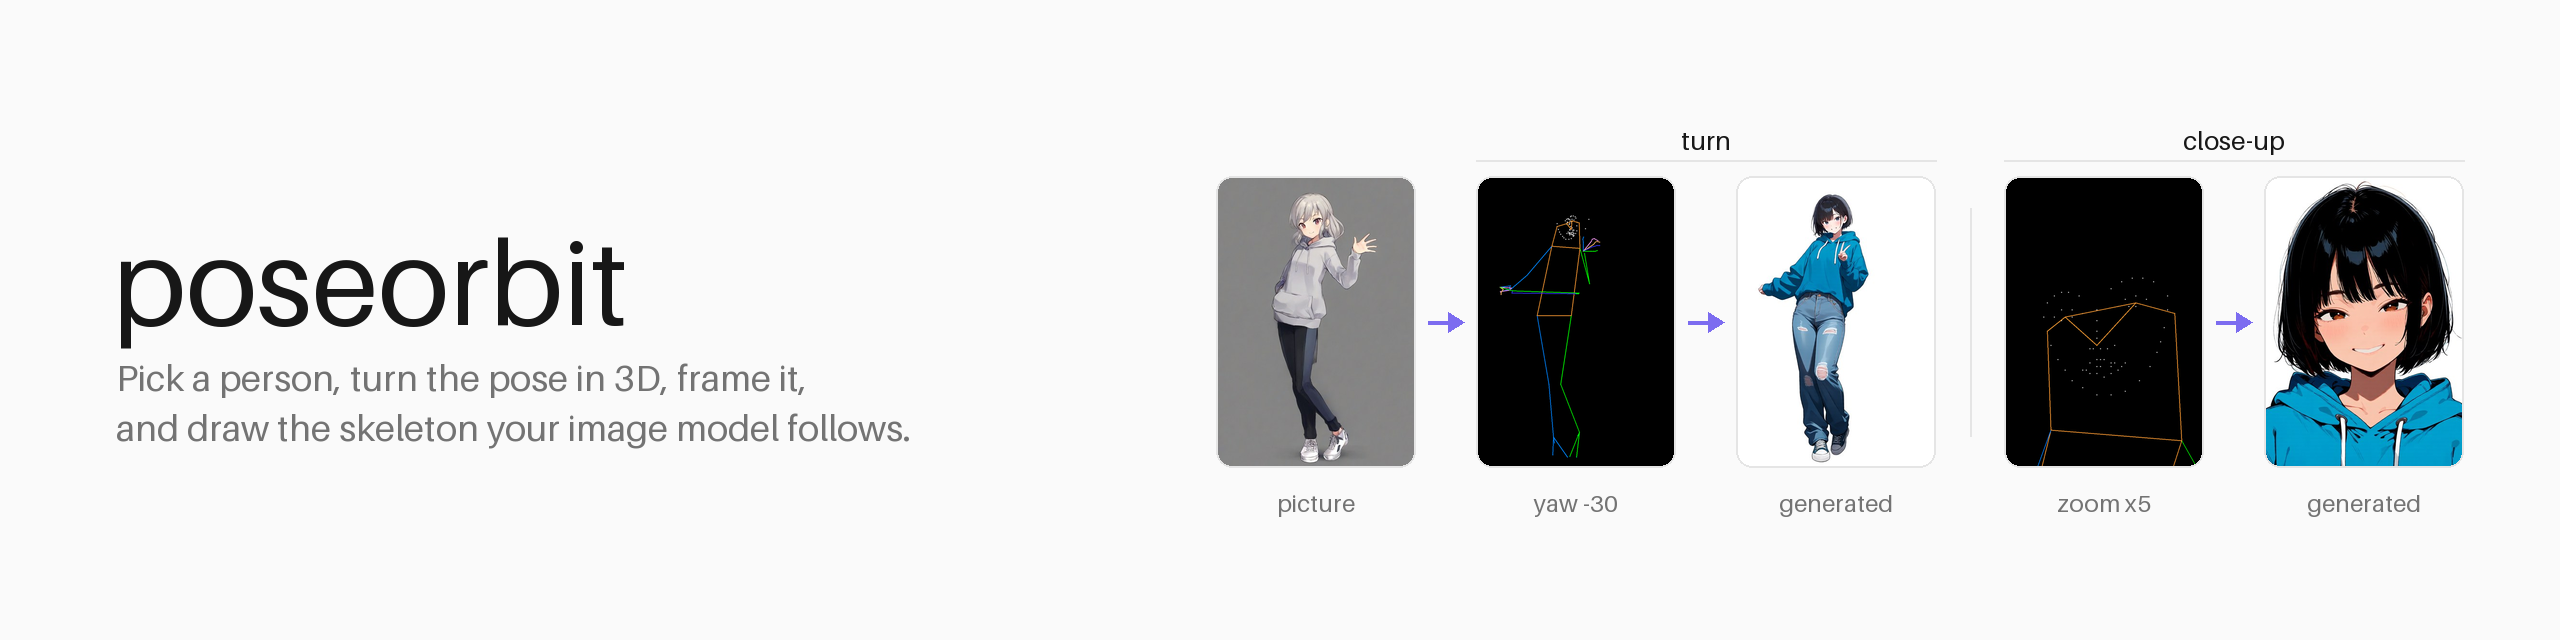
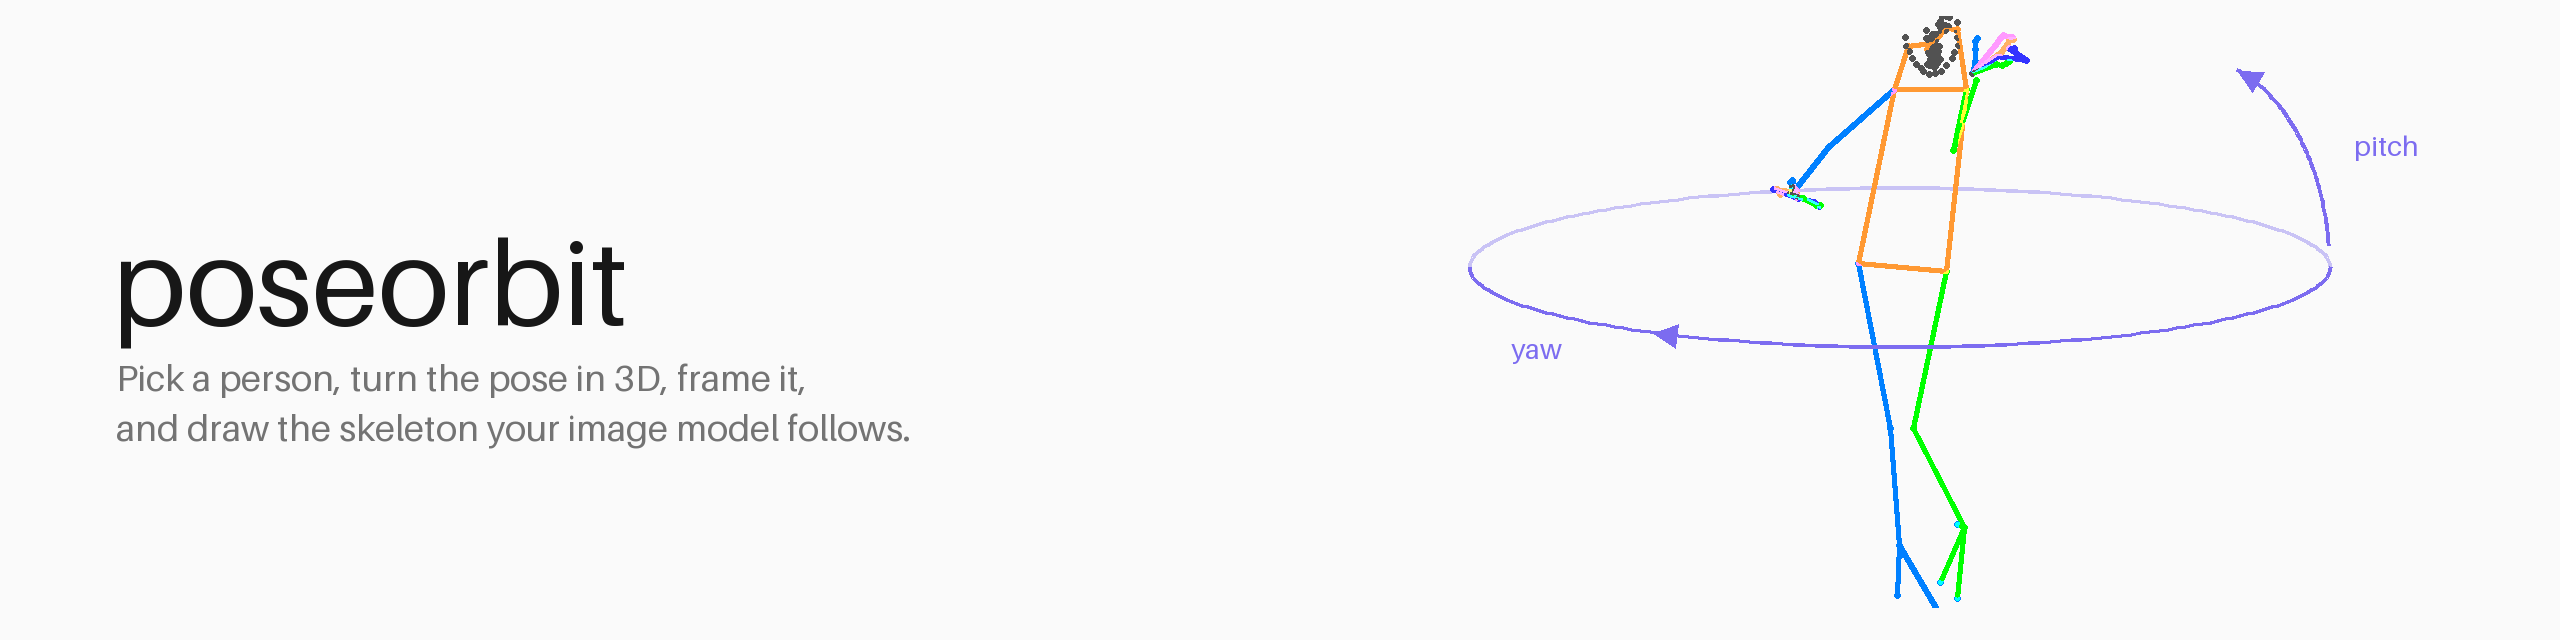
A header that shows the orbit, not one model's pictures
The banner was built from the anime example pictures, so it suggested one
use and one art style. It now shows one whole-body skeleton, turned by
poseorbit itself (yaw -30, pitch 12), inside the orbit its camera moves on.

The pose is kept as numbers in docs/assets/banner-pose.json (detected once
from the example reference), so scripts/make_banner.py needs no picture, no
model and no download, and stays deterministic. The README's Examples keep
the generated pictures.

diff --git a/scripts/make_banner.py b/scripts/make_banner.py
@@ -1,46 +1,44 @@
-"""Draws the README banner (docs/assets/banner-{light,dark}.png): the name on
-the left, and on the right what poseorbit is for, left to right: a picture,
-the skeleton poseorbit drew from it turned 30 degrees and the picture a model
-made from that skeleton, then the same for a close-up.
+"""Draws the README banner (docs/assets/banner-{light,dark}.png): the name and
+what poseorbit does on the left, and on the right one skeleton, turned by
+poseorbit itself, inside the orbit its camera moves on (yaw around the
+figure, pitch over it).
 
-The pictures are in docs/assets/examples (see the README's Examples for how
-they were made). Deterministic: re-running only changes the files when this
-script or those pictures change.
+The pose is docs/assets/banner-pose.json: one whole-body pose (133 points,
+x, y and depth in the pixels of a `size` picture, and their scores), detected
+once with `Detector().detect(picture, depth=True)` and kept as numbers, so
+the banner needs no picture, no model and no download. Deterministic:
+re-running only changes the files when this script, the pose or poseorbit's
+drawing change.
 
     python scripts/make_banner.py
 """
 
 from __future__ import annotations
 
+import json
+import math
 from pathlib import Path
 
-from PIL import Image, ImageDraw, ImageFont
+import numpy as np
+from PIL import Image, ImageColor, ImageDraw, ImageFilter, ImageFont
+
+from poseorbit import KEYPOINT_THRESHOLD, Camera, fit, render, scene_centre, view
 
 ROOT = Path(__file__).resolve().parent.parent
 ASSETS = ROOT / "docs" / "assets"
-EXAMPLES = ASSETS / "examples"
 W, H, SCALE = 1280, 320, 2
 
 THEMES = {
-    "light": {"bg": "#fafafa", "fg": "#171717", "muted": "#737373", "border": "#e5e5e5", "accent": "#7c6cf0"},
-    "dark": {"bg": "#0a0a0a", "fg": "#fafafa", "muted": "#a3a3a3", "border": "#262626", "accent": "#8b7cf6"},
+    "light": {"bg": "#fafafa", "fg": "#171717", "white": "#525252", "muted": "#737373", "ring": "#c9c3f5", "accent": "#7c6cf0"},
+    "dark": {"bg": "#0a0a0a", "fg": "#fafafa", "white": "#ffffff", "muted": "#a3a3a3", "ring": "#3d3570", "accent": "#8b7cf6"},
 }
 
-TILE_W, TILE_H = 100, 146  # the 832x1216 outputs' shape
-ARROW = 30  # the gap between tiles that holds an arrow
-SPLIT = 34  # the gap between the turn and the close-up
-TOP = 88
-
-# (picture, label under it, gap before it: None, "arrow" or "split")
-TILES = [
-    ("reference.jpg", "picture", None),
-    ("turn-skeleton.png", "yaw -30", "arrow"),
-    ("turn-result.jpg", "generated", "arrow"),
-    ("closeup-skeleton.png", "zoom x5", "split"),
-    ("closeup-result.jpg", "generated", "arrow"),
-]
-# Headings over groups of tiles: (first tile, last tile, text).
-GROUPS = [(1, 2, "turn"), (3, 4, "close-up")]
+CAMERA = Camera(yaw=-30, pitch=12)
+FIGURE = (240, 296)  # the box the turned skeleton is fitted into
+LEFT_TOP = (830, 8)  # where that box goes
+# The orbit is centred on the hips, wherever the pose puts them in the box.
+RING = (215, 40)  # the orbit's half width and half height
+PITCH_RISE = 105  # how high the pitch arc climbs over the orbit
 
 
 def font(size: int) -> ImageFont.FreeTypeFont:
@@ -49,56 +47,91 @@ def font(size: int) -> ImageFont.FreeTypeFont:
     return ImageFont.load_default(size=size * SCALE)
 
 
-def arrow(draw: ImageDraw.ImageDraw, x0: float, x1: float, y: float, colour: str) -> None:
-    s = SCALE
-    draw.line([x0 * s, y * s, (x1 - 3) * s, y * s], fill=colour, width=2 * s)
-    draw.polygon([((x1 - 8) * s, (y - 5) * s), (x1 * s, y * s), ((x1 - 8) * s, (y + 5) * s)], fill=colour)
+def skeleton() -> tuple[Image.Image, tuple[float, float]]:
+    """The turned skeleton (its black background made transparent) and the
+    middle of the orbit: under the box's middle, at the hips' height."""
+    data = json.loads((ASSETS / "banner-pose.json").read_text())
+    points = np.array(data["points"])[None]
+    scores = np.array(data["scores"])[None]
+    flat = view(points, scene_centre(points), CAMERA)
+    # Fit the figure itself, not the picture it came from, into the box.
+    shown = flat[0][scores[0] >= KEYPOINT_THRESHOLD]
+    low, high = shown.min(axis=0), shown.max(axis=0)
+    size = (FIGURE[0] * SCALE, FIGURE[1] * SCALE)
+    keypoints = fit(flat - low, tuple(high - low), size)
+    # rtmlib draws 2-pixel lines, thin at this scale: thicken them a little.
+    drawn = render(keypoints, scores, size, "dwpose").filter(ImageFilter.MaxFilter(3))
+    alpha = Image.fromarray(np.asarray(drawn).max(axis=2)).point(lambda v: min(255, v * 4))
+    figure = drawn.convert("RGBA")
+    figure.putalpha(alpha)
+    hips = keypoints[0, [11, 12]].mean(axis=0) / SCALE
+    # The figure is centred in its box; so is the orbit under it.
+    return figure, (LEFT_TOP[0] + FIGURE[0] / 2, LEFT_TOP[1] + float(hips[1]))
 
 
-def banner(theme: dict) -> Image.Image:
+def on_ring(centre: tuple[float, float], angle: float) -> tuple[float, float]:
+    """A point of the orbit ring in scaled pixels; angle 0 is the right end,
+    pi/2 the near side (lower on screen)."""
+    return (
+        (centre[0] + RING[0] * math.cos(angle)) * SCALE,
+        (centre[1] + RING[1] * math.sin(angle)) * SCALE,
+    )
+
+
+def arrow_head(draw: ImageDraw.ImageDraw, tip: tuple[float, float], towards: tuple[float, float], colour: str) -> None:
+    """A filled arrow head at `tip` (scaled pixels), pointing along `towards`."""
+    length = math.hypot(*towards)
+    ux, uy = towards[0] / length, towards[1] / length
+    back, half = 12 * SCALE, 6 * SCALE
+    bx, by = tip[0] - ux * back, tip[1] - uy * back
+    draw.polygon([tip, (bx - uy * half, by + ux * half), (bx + uy * half, by - ux * half)], fill=colour)
+
+
+def banner(theme: dict, figure: Image.Image, centre: tuple[float, float]) -> Image.Image:
     s = SCALE
-    image = Image.new("RGB", (W * s, H * s), theme["bg"])
+    image = Image.new("RGBA", (W * s, H * s), theme["bg"])
     draw = ImageDraw.Draw(image)
 
     draw.text((56 * s, 104 * s), "poseorbit", font=font(60), fill=theme["fg"])
     draw.text((58 * s, 178 * s), "Pick a person, turn the pose in 3D, frame it,", font=font(18), fill=theme["muted"])
     draw.text((58 * s, 203 * s), "and draw the skeleton your image model follows.", font=font(18), fill=theme["muted"])
 
-    gaps = {None: 0, "arrow": ARROW, "split": SPLIT}
-    width = sum(TILE_W + gaps[gap] for _, _, gap in TILES)
-    x = W - 48 - width
-    lefts = []
-    for name, label, gap in TILES:
-        if gap == "arrow":
-            arrow(draw, x + 6, x + ARROW - 6, TOP + TILE_H / 2, theme["accent"])
-        elif gap == "split":
-            middle = x + SPLIT / 2
-            draw.line([middle * s, (TOP + 16) * s, middle * s, (TOP + TILE_H - 16) * s], fill=theme["border"], width=s)
-        x += gaps[gap]
-        lefts.append(x)
-        tile = Image.open(EXAMPLES / name).convert("RGB").resize((TILE_W * s, TILE_H * s), Image.Resampling.LANCZOS)
-        mask = Image.new("L", tile.size, 0)
-        ImageDraw.Draw(mask).rounded_rectangle([0, 0, tile.width - 1, tile.height - 1], radius=8 * s, fill=255)
-        image.paste(tile, (x * s, TOP * s), mask)
-        draw.rounded_rectangle(
-            [x * s, TOP * s, (x + TILE_W) * s - 1, (TOP + TILE_H) * s - 1], radius=8 * s, outline=theme["border"], width=s
-        )
-        text = draw.textlength(label, font=font(12))
-        draw.text((x * s + (TILE_W * s - text) / 2, (TOP + TILE_H + 10) * s), label, font=font(12), fill=theme["muted"])
-        x += TILE_W
+    # The far half of the orbit, behind the figure.
+    far = [on_ring(centre, a) for a in np.linspace(math.pi, 2 * math.pi, 120)]
+    draw.line(far, fill=theme["ring"], width=2 * s, joint="curve")
 
-    for first, last, heading in GROUPS:
-        left, right = lefts[first], lefts[last] + TILE_W
-        text = draw.textlength(heading, font=font(13))
-        draw.text(((left + right) / 2 * s - text / 2, (TOP - 26) * s), heading, font=font(13), fill=theme["fg"])
-        draw.line([left * s, (TOP - 8) * s, right * s, (TOP - 8) * s], fill=theme["border"], width=s)
-    return image
+    # rtmlib draws the face in white, lost on a light background: tint it.
+    pixels = np.array(figure)
+    white = (pixels[..., :3] > 200).all(axis=2)
+    pixels[white, :3] = np.array(ImageColor.getrgb(theme["white"]), np.uint8)
+    image.alpha_composite(Image.fromarray(pixels), (LEFT_TOP[0] * s, LEFT_TOP[1] * s))
+    draw = ImageDraw.Draw(image)
+
+    # The near half, in front of the figure: the camera swings along it (yaw).
+    near = [on_ring(centre, a) for a in np.linspace(0, math.pi, 120)]
+    draw.line(near, fill=theme["accent"], width=2 * s, joint="curve")
+    a = math.radians(125)
+    arrow_head(draw, on_ring(centre, a), (-RING[0] * math.sin(a), RING[1] * math.cos(a)), theme["accent"])
+    label = on_ring(centre, math.radians(140))
+    draw.text((label[0] - 30 * s, label[1] + 6 * s), "yaw", font=font(14), fill=theme["accent"])
+
+    # The pitch arc: from the right end of the orbit, up over the figure.
+    start = on_ring(centre, 0)
+    arc = [
+        (start[0] - (1 - math.cos(t)) * 70 * s, start[1] - math.sin(t) * PITCH_RISE * s)
+        for t in np.linspace(math.radians(6), math.radians(70), 60)
+    ]
+    draw.line(arc, fill=theme["accent"], width=2 * s, joint="curve")
+    arrow_head(draw, arc[-1], (arc[-1][0] - arc[-4][0], arc[-1][1] - arc[-4][1]), theme["accent"])
+    draw.text((start[0] + 12 * s, start[1] - 70 * s), "pitch", font=font(14), fill=theme["accent"])
+    return image.convert("RGB")
 
 
 def main() -> None:
+    figure, centre = skeleton()
     for name, theme in THEMES.items():
         path = ASSETS / f"banner-{name}.png"
-        banner(theme).save(path, optimize=True)
+        banner(theme, figure, centre).save(path, optimize=True)
         print(f"wrote {path}")
 
 

diff --git a/README.md b/README.md
@@ -1,6 +1,6 @@
 <picture>
   <source media="(prefers-color-scheme: dark)" srcset="https://raw.githubusercontent.com/33rd-kk/poseorbit/main/docs/assets/banner-dark.png">
-  <img alt="poseorbit: a picture, the skeleton turned 30 degrees and the picture generated from it, then a zoomed skeleton and the close-up generated from it" src="https://raw.githubusercontent.com/33rd-kk/poseorbit/main/docs/assets/banner-light.png">
+  <img alt="poseorbit: a whole-body skeleton turned in 3D, inside the orbit the camera moves on: yaw around the figure, pitch over it" src="https://raw.githubusercontent.com/33rd-kk/poseorbit/main/docs/assets/banner-light.png">
 </picture>
 
 # poseorbit

diff --git a/docs/index.md b/docs/index.md
@@ -2,7 +2,7 @@
 
 <picture>
   <source media="(prefers-color-scheme: dark)" srcset="assets/banner-dark.png">
-  <img alt="A picture, the skeleton turned 30 degrees and the picture generated from it, then a zoomed skeleton and the close-up generated from it" src="assets/banner-light.png">
+  <img alt="A whole-body skeleton turned in 3D, inside the orbit the camera moves on: yaw around the figure, pitch over it" src="assets/banner-light.png">
 </picture>
 
 **Take the pose from a picture, pick whose, look at it from another angle or
